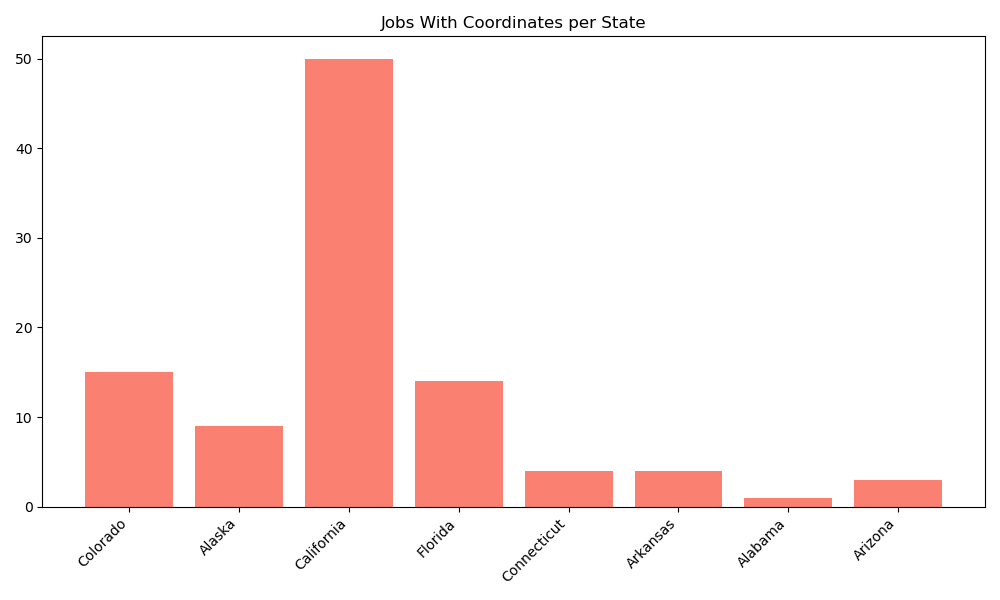
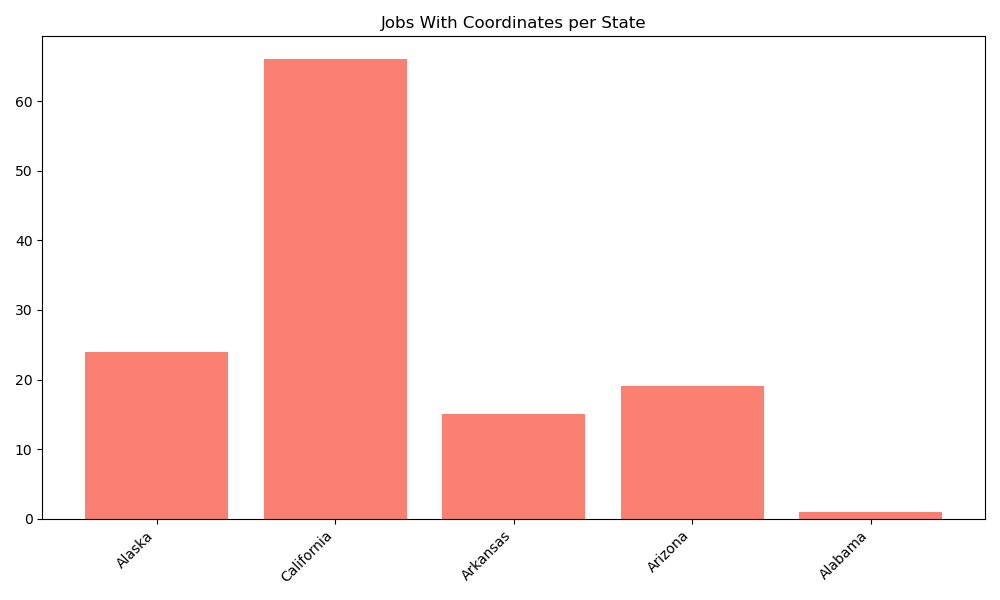
abc

diff --git a/job_heatmap.html b/job_heatmap.html
@@ -25,7 +25,7 @@
             <meta name="viewport" content="width=device-width,
                 initial-scale=1.0, maximum-scale=1.0, user-scalable=no" />
             <style>
-                #map_b68c10f514e3fbed824fcb9d27b2e7c1 {
+                #map_d5688bd747283926957cd6d37849b76d {
                     position: relative;
                     width: 100.0%;
                     height: 100.0%;
@@ -40,14 +40,14 @@
 <body>
     
     
-            <div class="folium-map" id="map_b68c10f514e3fbed824fcb9d27b2e7c1" ></div>
+            <div class="folium-map" id="map_d5688bd747283926957cd6d37849b76d" ></div>
         
 </body>
 <script>
     
     
-            var map_b68c10f514e3fbed824fcb9d27b2e7c1 = L.map(
-                "map_b68c10f514e3fbed824fcb9d27b2e7c1",
+            var map_d5688bd747283926957cd6d37849b76d = L.map(
+                "map_d5688bd747283926957cd6d37849b76d",
                 {
                     center: [39.5, -98.35],
                     crs: L.CRS.EPSG3857,
@@ -64,7 +64,7 @@
 
         
     
-            var tile_layer_0dba167847e8b1b12e0dc73ca06bcb28 = L.tileLayer(
+            var tile_layer_d4ca27a659898e335d9d5e1fdbe8b108 = L.tileLayer(
                 "https://tile.openstreetmap.org/{z}/{x}/{y}.png",
                 {
   "minZoom": 0,
@@ -81,11 +81,11 @@
             );
         
     
-            tile_layer_0dba167847e8b1b12e0dc73ca06bcb28.addTo(map_b68c10f514e3fbed824fcb9d27b2e7c1);
+            tile_layer_d4ca27a659898e335d9d5e1fdbe8b108.addTo(map_d5688bd747283926957cd6d37849b76d);
         
     
-            var heat_map_02a89050fd966ed72efb951878ae8bb0 = L.heatLayer(
-                [[34.698461, -86.65565], [64.674855, -147.092681], [64.674855, -147.092681], [61.216563, -149.893442], [64.674855, -147.092681], [61.241493, -149.872878], [64.674855, -147.092681], [61.253985, -149.693139], [61.253985, -149.693139], [61.216563, -149.893442], [32.221297, -110.973306], [32.221297, -110.973306], [32.221297, -110.973306], [34.893573, -92.140097], [34.746468, -92.273114], [34.51075, -93.054], [34.746468, -92.273114], [32.601954, -117.025465], [35.654816, -117.64333], [36.736079, -119.787082], [32.713623, -117.16016], [32.641277, -117.07996], [35.262747, -116.684831], [32.715881, -117.05823], [38.581021, -121.493933], [34.259051, -118.601702], [36.736079, -119.787082], [32.713623, -117.16016], [34.147818, -119.195441], [33.245278, -119.508889], [35.262747, -116.684831], [36.683414, -121.803536], [38.018984, -122.13485], [36.002736, -121.230911], [32.713623, -117.16016], [33.222275, -117.399437], [38.234056, -122.64028], [34.147818, -119.195441], [34.048051, -118.254187], [36.259717, -119.90227], [37.749375, -119.588651], [38.667915, -121.385344], [34.135553, -116.060167], [34.048051, -118.254187], [37.779238, -122.419359], [32.685779, -117.183065], [37.779238, -122.419359], [34.147818, -119.195441], [34.259051, -118.601702], [36.972287, -121.953323], [38.439666, -122.713437], [37.361439, -118.395259], [35.374337, -119.018926], [38.565482, -121.293379], [38.581021, -121.493933], [41.73156, -122.63561], [38.565482, -121.293379], [38.018984, -122.13485], [37.444508, -122.16095], [37.779238, -122.419359], [34.048051, -118.254187], [34.69789, -118.14204], [37.779238, -122.419359], [37.779238, -122.419359], [36.972287, -121.953323], [37.640516, -121.000321], [33.1959, -117.379517], [39.068314, -108.564442], [38.83242, -104.821879], [39.068314, -108.564442], [39.740328, -104.830668], [39.068314, -108.564442], [39.068314, -108.564442], [39.068314, -108.564442], [39.740328, -104.830668], [40.395441, -105.073206], [39.372268, -104.860012], [39.068314, -108.564442], [39.740328, -104.830668], [37.468179, -105.865465], [38.83242, -104.821879], [38.536265, -105.991797], [41.272352, -72.949801], [41.350166, -72.076258], [41.763816, -72.675888], [41.696263, -72.722993], [30.339448, -87.340463], [30.225899, -81.7004], [25.503521, -80.386646], [25.773357, -80.1919], [30.190122, -81.569439], [28.371275, -81.518122], [27.850213, -82.481571], [30.409666, -87.215123], [27.850213, -82.481571], [30.15522, -85.66039], [27.850213, -82.481571], [30.438059, -84.280624], [28.54211, -81.379039], [30.63336, -87.039751]],
+            var heat_map_8ee3ccdf32ac90007c793bef3aa3401f = L.heatLayer(
+                [[34.698461, -86.65565], [64.674855, -147.092681], [64.674855, -147.092681], [61.216563, -149.893442], [61.216563, -149.893442], [64.674855, -147.092681], [61.241493, -149.872878], [61.241493, -149.872878], [64.674855, -147.092681], [61.253985, -149.693139], [61.253985, -149.693139], [61.216563, -149.893442], [32.221297, -110.973306], [32.221297, -110.973306], [32.69232, -114.628958], [32.221297, -110.973306], [32.221297, -110.973306], [32.221297, -110.973306], [34.893573, -92.140097], [34.746468, -92.273114], [34.51075, -93.054], [32.601954, -117.025465], [35.654816, -117.64333], [36.736079, -119.787082], [36.736079, -119.787082], [64.674855, -147.092681], [64.674855, -147.092681], [61.216563, -149.893442], [61.216563, -149.893442], [64.674855, -147.092681], [61.241493, -149.872878], [61.241493, -149.872878], [64.674855, -147.092681], [61.253985, -149.693139], [61.253985, -149.693139], [61.216563, -149.893442], [32.221297, -110.973306], [32.221297, -110.973306], [32.69232, -114.628958], [32.221297, -110.973306], [32.221297, -110.973306], [32.221297, -110.973306], [34.893573, -92.140097], [34.746468, -92.273114], [34.51075, -93.054], [32.601954, -117.025465], [35.654816, -117.64333], [36.736079, -119.787082], [36.736079, -119.787082], [32.713623, -117.16016], [61.253985, -149.693139], [61.216563, -149.893442], [32.221297, -110.973306], [32.221297, -110.973306], [32.69232, -114.628958], [32.221297, -110.973306], [32.221297, -110.973306], [32.221297, -110.973306], [34.893573, -92.140097], [34.746468, -92.273114], [34.51075, -93.054], [32.601954, -117.025465], [35.654816, -117.64333], [36.736079, -119.787082], [36.736079, -119.787082], [32.713623, -117.16016], [32.641277, -117.07996], [35.262747, -116.684831], [32.715881, -117.05823], [38.581021, -121.493933], [36.736079, -119.787082], [36.736079, -119.787082], [32.713623, -117.16016], [34.147818, -119.195441], [33.245278, -119.508889], [32.221297, -110.973306], [34.893573, -92.140097], [34.746468, -92.273114], [34.51075, -93.054], [32.601954, -117.025465], [35.654816, -117.64333], [36.736079, -119.787082], [36.736079, -119.787082], [32.713623, -117.16016], [32.641277, -117.07996], [35.262747, -116.684831], [32.715881, -117.05823], [38.581021, -121.493933], [36.736079, -119.787082], [36.736079, -119.787082], [32.713623, -117.16016], [34.147818, -119.195441], [33.245278, -119.508889], [35.262747, -116.684831], [36.683414, -121.803536], [38.018984, -122.13485], [36.002736, -121.230911], [32.713623, -117.16016], [33.222275, -117.399437], [38.234056, -122.64028], [34.893573, -92.140097], [34.746468, -92.273114], [34.51075, -93.054], [32.601954, -117.025465], [35.654816, -117.64333], [36.736079, -119.787082], [36.736079, -119.787082], [32.713623, -117.16016], [32.641277, -117.07996], [35.262747, -116.684831], [32.715881, -117.05823], [38.581021, -121.493933], [36.736079, -119.787082], [36.736079, -119.787082], [32.713623, -117.16016], [34.147818, -119.195441], [33.245278, -119.508889], [35.262747, -116.684831], [36.683414, -121.803536], [38.018984, -122.13485], [36.002736, -121.230911], [32.713623, -117.16016], [33.222275, -117.399437], [38.234056, -122.64028], [38.234056, -122.64028]],
                 {
   "minOpacity": 0.5,
   "maxZoom": 18,
@@ -95,7 +95,7 @@
             );
         
     
-            heat_map_02a89050fd966ed72efb951878ae8bb0.addTo(map_b68c10f514e3fbed824fcb9d27b2e7c1);
+            heat_map_8ee3ccdf32ac90007c793bef3aa3401f.addTo(map_d5688bd747283926957cd6d37849b76d);
         
 </script>
 </html>

diff --git a/Working_File_Our_Attempt_at_More_Than_100_States.py b/Working_File_Our_Attempt_at_More_Than_100_States.py
@@ -150,7 +150,7 @@ for state in valid_states:
 
     
             cur.execute('''
-                INSERT INTO Jobs (title, organization, location, salary_min, salary_max)
+                INSERT OR IGNORE INTO Jobs (title, organization, location, salary_min, salary_max)
                 VALUES (?, ?, ?, ?, ?)
             ''', (title, organization, job_location, salary_min, salary_max))
 

diff --git a/map_data.py b/map_data.py
@@ -27,7 +27,6 @@ try:
     cur.execute("ALTER TABLE Jobs ADD COLUMN number INTEGER")
     conn.commit()
 except sqlite3.OperationalError:
-    # Column already exists
     pass
 
 conn.commit()
